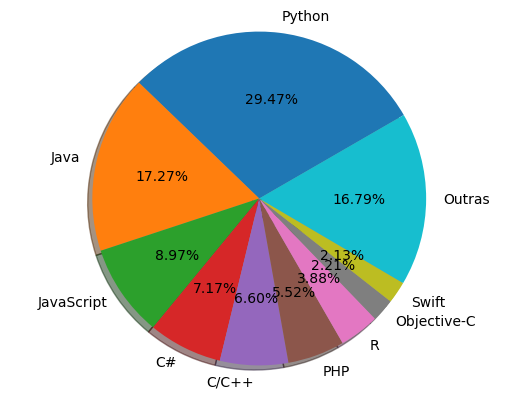
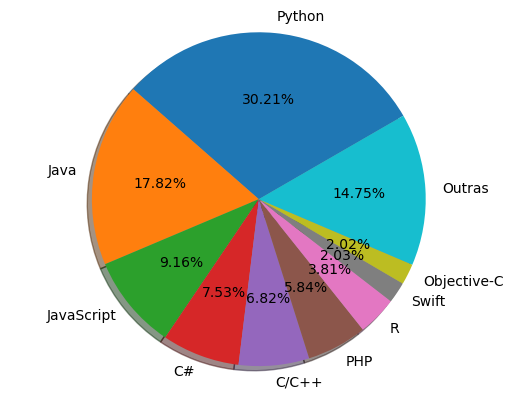
Build site at 2021-12-02 06:00:05 UTC

diff --git a/docs/popularidade/index.html b/docs/popularidade/index.html
@@ -1414,169 +1414,169 @@
     <tr>
       <td style="text-align: center">1</td>
       <td style="text-align: left">Python</td>
-      <td style="text-align: center">29.47</td>
-      <td style="text-align: center">-1.5</td>
+      <td style="text-align: center">30.21</td>
+      <td style="text-align: center">-0.5</td>
     </tr>
     <tr>
       <td style="text-align: center">2</td>
       <td style="text-align: left">Java</td>
-      <td style="text-align: center">17.27</td>
-      <td style="text-align: center">+0.8</td>
+      <td style="text-align: center">17.82</td>
+      <td style="text-align: center">+1.3</td>
     </tr>
     <tr>
       <td style="text-align: center">3</td>
       <td style="text-align: left">JavaScript</td>
-      <td style="text-align: center">8.97</td>
-      <td style="text-align: center">+0.5</td>
+      <td style="text-align: center">9.16</td>
+      <td style="text-align: center">+0.6</td>
     </tr>
     <tr>
       <td style="text-align: center">4</td>
       <td style="text-align: left">C#</td>
-      <td style="text-align: center">7.17</td>
-      <td style="text-align: center">+0.8</td>
+      <td style="text-align: center">7.53</td>
+      <td style="text-align: center">+1.0</td>
     </tr>
     <tr>
       <td style="text-align: center">5</td>
       <td style="text-align: left">C/C++</td>
-      <td style="text-align: center">6.6</td>
+      <td style="text-align: center">6.82</td>
       <td style="text-align: center">+0.6</td>
     </tr>
     <tr>
       <td style="text-align: center">6</td>
       <td style="text-align: left">PHP</td>
-      <td style="text-align: center">5.52</td>
-      <td style="text-align: center">-0.5</td>
+      <td style="text-align: center">5.84</td>
+      <td style="text-align: center">-0.2</td>
     </tr>
     <tr>
       <td style="text-align: center">7</td>
       <td style="text-align: left">R</td>
-      <td style="text-align: center">3.88</td>
+      <td style="text-align: center">3.81</td>
       <td style="text-align: center">-0.0</td>
     </tr>
     <tr>
       <td style="text-align: center">8</td>
-      <td style="text-align: left">Objective-C</td>
-      <td style="text-align: center">2.21</td>
-      <td style="text-align: center">-1.4</td>
-    </tr>
-    <tr>
-      <td style="text-align: center">9</td>
       <td style="text-align: left">Swift</td>
-      <td style="text-align: center">2.13</td>
+      <td style="text-align: center">2.03</td>
       <td style="text-align: center">-0.2</td>
     </tr>
     <tr>
+      <td style="text-align: center">9</td>
+      <td style="text-align: left">Objective-C</td>
+      <td style="text-align: center">2.02</td>
+      <td style="text-align: center">-1.6</td>
+    </tr>
+    <tr>
       <td style="text-align: center">10</td>
-      <td style="text-align: left">TypeScript</td>
-      <td style="text-align: center">2.09</td>
-      <td style="text-align: center">+0.2</td>
-    </tr>
-    <tr>
-      <td style="text-align: center">11</td>
-      <td style="text-align: left">Kotlin</td>
-      <td style="text-align: center">1.74</td>
-      <td style="text-align: center">+0.1</td>
-    </tr>
-    <tr>
-      <td style="text-align: center">12</td>
       <td style="text-align: left">Matlab</td>
-      <td style="text-align: center">1.68</td>
+      <td style="text-align: center">1.73</td>
       <td style="text-align: center">-0.1</td>
     </tr>
     <tr>
-      <td style="text-align: center">13</td>
+      <td style="text-align: center">11</td>
+      <td style="text-align: left">TypeScript</td>
+      <td style="text-align: center">1.63</td>
+      <td style="text-align: center">-0.2</td>
+    </tr>
+    <tr>
+      <td style="text-align: center">12</td>
       <td style="text-align: left">Go</td>
-      <td style="text-align: center">1.39</td>
-      <td style="text-align: center">+0.0</td>
+      <td style="text-align: center">1.52</td>
+      <td style="text-align: center">+0.2</td>
+    </tr>
+    <tr>
+      <td style="text-align: center">13</td>
+      <td style="text-align: left">Kotlin</td>
+      <td style="text-align: center">1.44</td>
+      <td style="text-align: center">-0.2</td>
     </tr>
     <tr>
       <td style="text-align: center">14</td>
       <td style="text-align: left">VBA</td>
-      <td style="text-align: center">1.38</td>
-      <td style="text-align: center">+0.3</td>
+      <td style="text-align: center">1.27</td>
+      <td style="text-align: center">+0.1</td>
     </tr>
     <tr>
       <td style="text-align: center">15</td>
       <td style="text-align: left">Rust</td>
-      <td style="text-align: center">1.2</td>
-      <td style="text-align: center">+0.1</td>
+      <td style="text-align: center">0.94</td>
+      <td style="text-align: center">-0.2</td>
     </tr>
     <tr>
       <td style="text-align: center">16</td>
       <td style="text-align: left">Ruby</td>
-      <td style="text-align: center">1.05</td>
-      <td style="text-align: center">-0.1</td>
+      <td style="text-align: center">0.89</td>
+      <td style="text-align: center">-0.2</td>
     </tr>
     <tr>
       <td style="text-align: center">17</td>
       <td style="text-align: left">Ada</td>
-      <td style="text-align: center">0.94</td>
-      <td style="text-align: center">+0.3</td>
+      <td style="text-align: center">0.86</td>
+      <td style="text-align: center">+0.2</td>
     </tr>
     <tr>
       <td style="text-align: center">18</td>
-      <td style="text-align: left">Visual Basic</td>
-      <td style="text-align: center">0.77</td>
-      <td style="text-align: center">+0.0</td>
+      <td style="text-align: left">Scala</td>
+      <td style="text-align: center">0.63</td>
+      <td style="text-align: center">-0.1</td>
     </tr>
     <tr>
       <td style="text-align: center">19</td>
       <td style="text-align: left">Dart</td>
-      <td style="text-align: center">0.74</td>
-      <td style="text-align: center">+0.2</td>
+      <td style="text-align: center">0.61</td>
+      <td style="text-align: center">+0.0</td>
     </tr>
     <tr>
       <td style="text-align: center">20</td>
-      <td style="text-align: left">Scala</td>
-      <td style="text-align: center">0.73</td>
-      <td style="text-align: center">-0.0</td>
+      <td style="text-align: left">Abap</td>
+      <td style="text-align: center">0.55</td>
+      <td style="text-align: center">+0.1</td>
     </tr>
     <tr>
       <td style="text-align: center">21</td>
-      <td style="text-align: left">Abap</td>
-      <td style="text-align: center">0.67</td>
-      <td style="text-align: center">+0.3</td>
+      <td style="text-align: left">Visual Basic</td>
+      <td style="text-align: center">0.53</td>
+      <td style="text-align: center">-0.2</td>
     </tr>
     <tr>
       <td style="text-align: center">22</td>
-      <td style="text-align: left">Julia</td>
-      <td style="text-align: center">0.5</td>
+      <td style="text-align: left">Groovy</td>
+      <td style="text-align: center">0.48</td>
       <td style="text-align: center">+0.1</td>
     </tr>
     <tr>
       <td style="text-align: center">23</td>
-      <td style="text-align: left">Groovy</td>
-      <td style="text-align: center">0.49</td>
-      <td style="text-align: center">+0.1</td>
+      <td style="text-align: left">Lua</td>
+      <td style="text-align: center">0.47</td>
+      <td style="text-align: center">-0.2</td>
     </tr>
     <tr>
       <td style="text-align: center">24</td>
-      <td style="text-align: left">Lua</td>
-      <td style="text-align: center">0.47</td>
-      <td style="text-align: center">-0.1</td>
+      <td style="text-align: left">Julia</td>
+      <td style="text-align: center">0.36</td>
+      <td style="text-align: center">-0.0</td>
     </tr>
     <tr>
       <td style="text-align: center">25</td>
-      <td style="text-align: left">Haskell</td>
-      <td style="text-align: center">0.35</td>
-      <td style="text-align: center">+0.1</td>
+      <td style="text-align: left">Perl</td>
+      <td style="text-align: center">0.3</td>
+      <td style="text-align: center">-0.2</td>
     </tr>
     <tr>
       <td style="text-align: center">26</td>
-      <td style="text-align: left">Perl</td>
-      <td style="text-align: center">0.32</td>
-      <td style="text-align: center">-0.1</td>
+      <td style="text-align: left">Haskell</td>
+      <td style="text-align: center">0.28</td>
+      <td style="text-align: center">+0.0</td>
     </tr>
     <tr>
       <td style="text-align: center">27</td>
       <td style="text-align: left">Cobol</td>
-      <td style="text-align: center">0.28</td>
-      <td style="text-align: center">-0.0</td>
+      <td style="text-align: center">0.26</td>
+      <td style="text-align: center">-0.1</td>
     </tr>
   </tbody>
 </table>
 
-<p class="small"><strong><em>Mundialmente em novembro de 2021, comparado a um ano antes</em></strong></p>
+<p class="small"><strong><em>Mundialmente em dezembro de 2021, comparado a um ano antes</em></strong></p>
 
 
   
@@ -1584,7 +1584,7 @@
 
 <hr>
 <p class="small">
-  <i> Página atualizada em 09/11/21</i>
+  <i> Página atualizada em 02/12/21</i>
 </p>
 
 

diff --git a/docs/material/exercicios/lista1.html b/docs/material/exercicios/lista1.html
@@ -34,7 +34,7 @@
 <meta name="twitter:card" content="summary" />
 <meta property="twitter:title" content="Primeira Lista" />
 <script type="application/ld+json">
-{"headline":"Primeira Lista","description":"Computação Científica em Python - uma disciplina do curso de Engenharia Física da Escola de Engenharia de Lorena da Universidade de São Paulo - EEL USP","dateModified":"2021-09-09T15:37:14-03:00","@type":"WebPage","author":{"@type":"Person","name":"Luiz T. F. Eleno"},"url":"https://computeel.org/LOM3260/material/exercicios/lista1.html","@context":"https://schema.org"}</script>
+{"headline":"Primeira Lista","description":"Computação Científica em Python - uma disciplina do curso de Engenharia Física da Escola de Engenharia de Lorena da Universidade de São Paulo - EEL USP","dateModified":"2021-11-18T14:00:29-03:00","@type":"WebPage","author":{"@type":"Person","name":"Luiz T. F. Eleno"},"url":"https://computeel.org/LOM3260/material/exercicios/lista1.html","@context":"https://schema.org"}</script>
 <!-- End Jekyll SEO tag -->
 
   

diff --git a/docs/index.html b/docs/index.html
@@ -1435,7 +1435,7 @@
 
 </div>
 
-<p class="small"><strong><em>Última atualização: 18/11/2021 14:00:24</em></strong></p>
+<p class="small"><strong><em>Última atualização: 02/12/2021 03:00:02</em></strong></p>
 
 
 

diff --git a/material/sobre/01-introdução.md b/material/sobre/01-introdução.md
@@ -4,7 +4,7 @@ parent: sobre
 nav_order: 0
 tags: [introdução, pypl, python, popularity]
 permalink: /popularidade/
-timestamp: '09/11/21'
+timestamp: '02/12/21'
 ---
 
 Python é a linguagem mais popular e a que mais cresce mundialmente
@@ -18,33 +18,33 @@ O **índice PYPL** (*PopularitY of Programming Language*) é obtido analisando a
 
 | Posição	| Linguagem |	Fatia (%)	| Tendência (%) |
 |:-------:|:--------- |:-----:|:---------:|
-| 1 | Python |          29.47  | -1.5  |
-| 2 | Java |          17.27  | +0.8  |
-| 3 | JavaScript |          8.97  | +0.5  |
-| 4 | C# |          7.17  | +0.8  |
-| 5 | C/C++ |          6.6  | +0.6  |
-| 6 | PHP |          5.52  | -0.5  |
-| 7 | R |          3.88  | -0.0  |
-| 8 | Objective-C |          2.21  | -1.4  |
-| 9 | Swift |          2.13  | -0.2  |
-| 10 | TypeScript |          2.09  | +0.2  |
-| 11 | Kotlin |          1.74  | +0.1  |
-| 12 | Matlab |          1.68  | -0.1  |
-| 13 | Go |          1.39  | +0.0  |
-| 14 | VBA |          1.38  | +0.3  |
-| 15 | Rust |          1.2  | +0.1  |
-| 16 | Ruby |          1.05  | -0.1  |
-| 17 | Ada |          0.94  | +0.3  |
-| 18 | Visual Basic |          0.77  | +0.0  |
-| 19 | Dart |          0.74  | +0.2  |
-| 20 | Scala |          0.73  | -0.0  |
-| 21 | Abap |          0.67  | +0.3  |
-| 22 | Julia |          0.5  | +0.1  |
-| 23 | Groovy |          0.49  | +0.1  |
-| 24 | Lua |          0.47  | -0.1  |
-| 25 | Haskell |          0.35  | +0.1  |
-| 26 | Perl |          0.32  | -0.1  |
-| 27 | Cobol |          0.28  | -0.0  |
+| 1 | Python |          30.21  | -0.5  |
+| 2 | Java |          17.82  | +1.3  |
+| 3 | JavaScript |          9.16  | +0.6  |
+| 4 | C# |          7.53  | +1.0  |
+| 5 | C/C++ |          6.82  | +0.6  |
+| 6 | PHP |          5.84  | -0.2  |
+| 7 | R |          3.81  | -0.0  |
+| 8 | Swift |          2.03  | -0.2  |
+| 9 | Objective-C |          2.02  | -1.6  |
+| 10 | Matlab |          1.73  | -0.1  |
+| 11 | TypeScript |          1.63  | -0.2  |
+| 12 | Go |          1.52  | +0.2  |
+| 13 | Kotlin |          1.44  | -0.2  |
+| 14 | VBA |          1.27  | +0.1  |
+| 15 | Rust |          0.94  | -0.2  |
+| 16 | Ruby |          0.89  | -0.2  |
+| 17 | Ada |          0.86  | +0.2  |
+| 18 | Scala |          0.63  | -0.1  |
+| 19 | Dart |          0.61  | +0.0  |
+| 20 | Abap |          0.55  | +0.1  |
+| 21 | Visual Basic |          0.53  | -0.2  |
+| 22 | Groovy |          0.48  | +0.1  |
+| 23 | Lua |          0.47  | -0.2  |
+| 24 | Julia |          0.36  | -0.0  |
+| 25 | Perl |          0.3  | -0.2  |
+| 26 | Haskell |          0.28  | +0.0  |
+| 27 | Cobol |          0.26  | -0.1  |
 
-***Mundialmente em novembro de 2021, comparado a um ano antes***
+***Mundialmente em dezembro de 2021, comparado a um ano antes***
 {: .small}

diff --git a/exercicios/_lista1/senha.md b/exercicios/_lista1/senha.md
@@ -15,13 +15,10 @@ Escreva um programa para gerar uma senha aleatória. A senha deve ter um comprim
 ### Solução
 
 ```python
-import numpy.random as rd
-L = rd.randint(7, 11)  # tamanho da senha
-s = rd.randint(33, 127, size=L)  # senha com L caracteres no intervalo 33-126
-# imprime a senha:
-senha = ''
-for c in s:
-    senha += chr(c)
+from numpy.random import randint
+L = randint(7, 11)  # tamanho da senha
+s = randint(33, 127, size=L)  # senha com L caracteres no intervalo 33-126
+senha = ''.join(chr(c) for c in s)
 print(senha)
 ```
 
